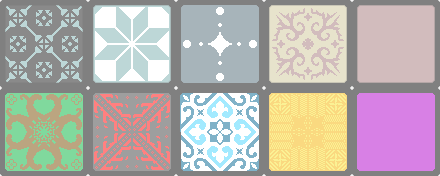
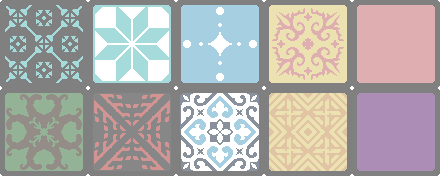
add alternative graphics

diff --git a/game.js b/game.js
@@ -42,8 +42,6 @@ function Game(code, host) {
 			player.game = this;
 	
 			this.broadcastPlayerlist();
-			player.sendId();
-			player.sendLobbyId();
 			return true;
 		} else {
 			return false;
@@ -68,17 +66,21 @@ function Game(code, host) {
 	}
 
 	this.broadcastPlayerlist = function() {
-		this.broadcast({
-			type: 'playerlist',
-			data: {
-				players: this.players.map(p => {
-					return {
-						id: p.id,
-						name: p.name,
-						score: p.score
-					};
-				})
-			} 
+		this.broadcast((player) => {
+			return {
+				type: 'playerlist',
+				data: {
+					players: this.players.map(p => {
+						return {
+							id: p.id,
+							name: p.name,
+							score: p.score
+						};
+					}),
+					playerId: player.id,
+					gameId: player.game.id
+				} 
+			};
 		});
 	}
 
@@ -327,7 +329,11 @@ function Game(code, host) {
 
 	this.broadcast = function(message) {
 		this.players.forEach(p => {
-			p.send(message);
+			if (typeof message == 'function') {
+				p.send(message(p));
+			} else {
+				p.send(message);
+			}
 		});
 	}
 
@@ -442,9 +448,7 @@ function Game(code, host) {
 	}
 
 	this.broadcastPlayerlist();
-	host.sendId();
 	host.sendHost();
-	host.sendLobbyId();
 
 	return this;
 }
@@ -540,25 +544,9 @@ function Player(client) {
 
 	this.state = function() {
 		this.game.broadcaststate(this);
-		this.sendId();
-		this.sendLobbyId();
 		if (!this.game.started && this.isAdmin) {
 			this.sendHost();
 		}
-	}
-
-	this.sendLobbyId = function() {
-		this.send({
-			type: 'lobby',
-			data: this.game.id
-		});
-	}
-
-	this.sendId = function() {
-		this.send({
-			type: 'playerid',
-			data: this.id
-		})
 	}
 
 	this.sendHost = function() {

diff --git a/client.js b/client.js
@@ -62,15 +62,6 @@
                 showJoinUI = true;
                 updateDisplay(1);
                 break;
-            case 'lobby':
-                lobbyName = message.data;
-                if (lobbyName.endsWith('2')) {
-                    skinVersion = 1;
-                } else {
-                    skinVersion = 0;
-                }
-                updateDisplay(1);
-                break;
             case 'host':
                 showHostUI = true;
                 updateDisplay(1);
@@ -166,10 +157,13 @@
                 break;
             case 'playerlist':
                 boards = message.data.players.map(p => NewBoard(p.id, p.name, p.score));
-                updateDisplay(1);
-                break;
-            case 'playerid':
-                playerId = message.data;
+                playerId = message.data.playerId;
+                lobbyName = message.data.gameId;
+                if (lobbyName.endsWith('2')) {
+                    skinVersion = 1;
+                } else {
+                    skinVersion = 0;
+                }
                 updateDisplay(1);
                 break;
         }
